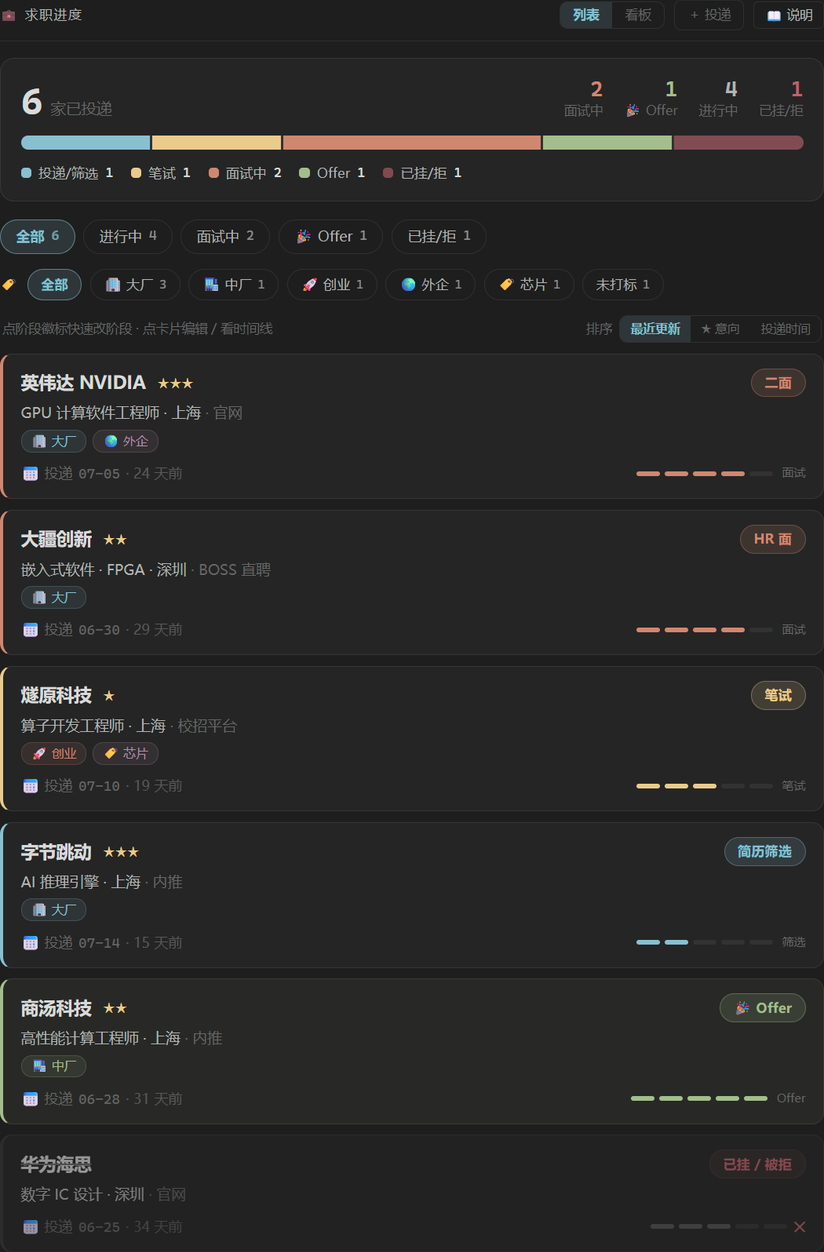
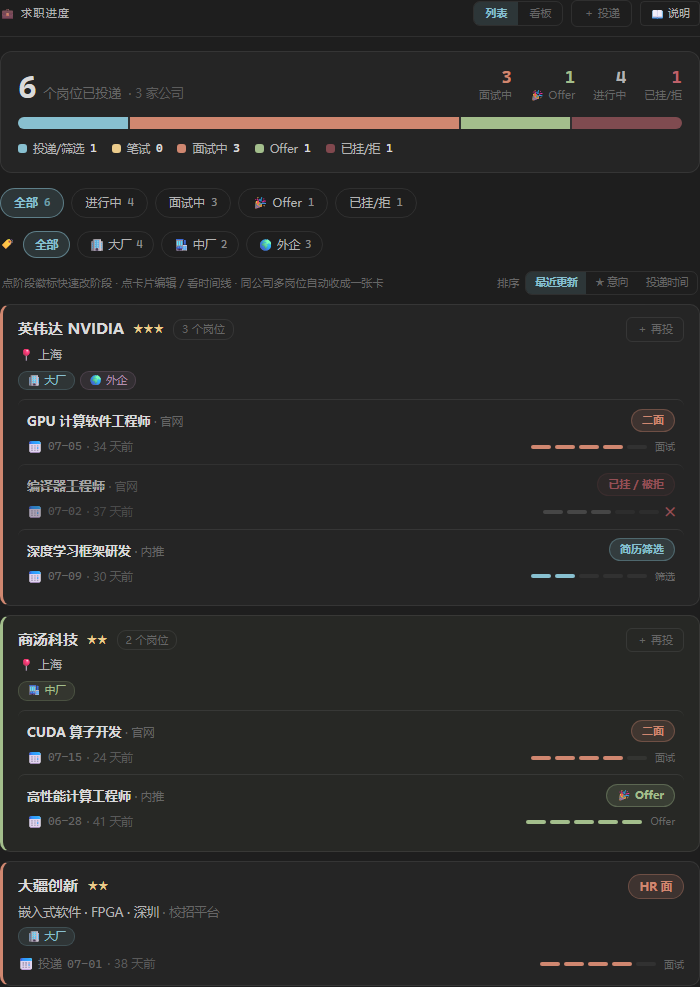
README + 画廊图：求职进度公司卡（v1.82.0）

diff --git a/README.md b/README.md
@@ -177,7 +177,7 @@
 
 <div align="center">
   <img src="docs/img/module-jobs.png" width="560" alt="求职进度"><br>
-  <b>💼 求职进度</b> · <sub>秋招 / 春招投很多家公司时，一目了然看——<b>投了哪些公司、什么岗位、什么时候投的、进度到哪一步</b>。以「一家投递 = 一张卡」为单位。<b>两种视图</b>：<b>列表</b>（一家一张大卡，信息全，点阶段徽标弹菜单快速改阶段）/ <b>看板</b>（按 投递·筛选 / 笔试 / 面试中 / Offer / 已挂拒 <b>5 列分布</b>，卡片压缩、一屏看清进度分布），右上一键切换、记住选择。顶部<b>漏斗概览</b>：投递总数 + 面试中 / Offer / 进行中 / 已挂拒 + 分段漏斗条。阶段流水线 <b>已投递 → 简历筛选 → 笔试 → 一 / 二 / 三面·HR 面 → 🎉Offer</b> + 终态「已挂 / 被拒」「我已回绝」，Offer 卡淡绿高亮、终态卡置灰划线，每张卡带 5 段迷你进度条；每次改阶段自动记<b>时间线</b>。还能按自己的分类筛：<b>标签</b>一家可挂多个（大厂 / 中厂 / 国企 / 外企 / 远程…，预置候选之外也能自己写），🏷 一行 chips 带计数 +「未打标」桶，<b>和阶段筛选叠加取交集</b>（大厂 ∩ 面试中），选中后顶部漏斗<b>只统计这一批</b>——「大厂投了几家、面到几个、挂了几个」一眼可得；<b>意向</b> ★★★ 第一 / ★★ 第二 / ★ 备选在卡片上显金色星，可切<b>排序</b>（最近更新 / ★ 意向 / 投递时间）把最想去的顶上来。</sub>
+  <b>💼 求职进度</b> · <sub>秋招 / 春招投很多家公司时，一目了然看——<b>投了哪些公司、什么岗位、什么时候投的、进度到哪一步</b>。以「一个岗位 = 一条记录」为单位（进度是跟着岗位走的：同一家 A 岗过了笔试、B 岗简历挂了，是两条独立进度）。<b>同一家投多个岗位会自动收成一张公司卡</b>：公司名 / 意向星 / 标签 / 共同城市只显示一次，下面每个岗位一行各带自己的阶段徽标、投递日和进度条；卡头<b>「＋ 再投」</b>给这家再加一个岗位时，公司 / 城市 / 标签 / 意向自动带上。只投一个岗位的公司外观照旧。<b>两种视图</b>：<b>列表</b>（一家一张大卡，信息全，点阶段徽标弹菜单快速改阶段）/ <b>看板</b>（按 投递·筛选 / 笔试 / 面试中 / Offer / 已挂拒 <b>5 列分布</b>，卡片压缩、一屏看清进度分布），右上一键切换、记住选择。顶部<b>漏斗概览</b>：投递总数 + 面试中 / Offer / 进行中 / 已挂拒 + 分段漏斗条。阶段流水线 <b>已投递 → 简历筛选 → 笔试 → 一 / 二 / 三面·HR 面 → 🎉Offer</b> + 终态「已挂 / 被拒」「我已回绝」，Offer 卡淡绿高亮、终态卡置灰划线，每张卡带 5 段迷你进度条；每次改阶段自动记<b>时间线</b>。还能按自己的分类筛：<b>标签</b>一家可挂多个（大厂 / 中厂 / 国企 / 外企 / 远程…，预置候选之外也能自己写），🏷 一行 chips 带计数 +「未打标」桶，<b>和阶段筛选叠加取交集</b>（大厂 ∩ 面试中），选中后顶部漏斗<b>只统计这一批</b>——「大厂投了几家、面到几个、挂了几个」一眼可得；<b>意向</b> ★★★ 第一 / ★★ 第二 / ★ 备选在卡片上显金色星，可切<b>排序</b>（最近更新 / ★ 意向 / 投递时间）把最想去的顶上来。</sub>
 </div>
 
 <div align="center">
